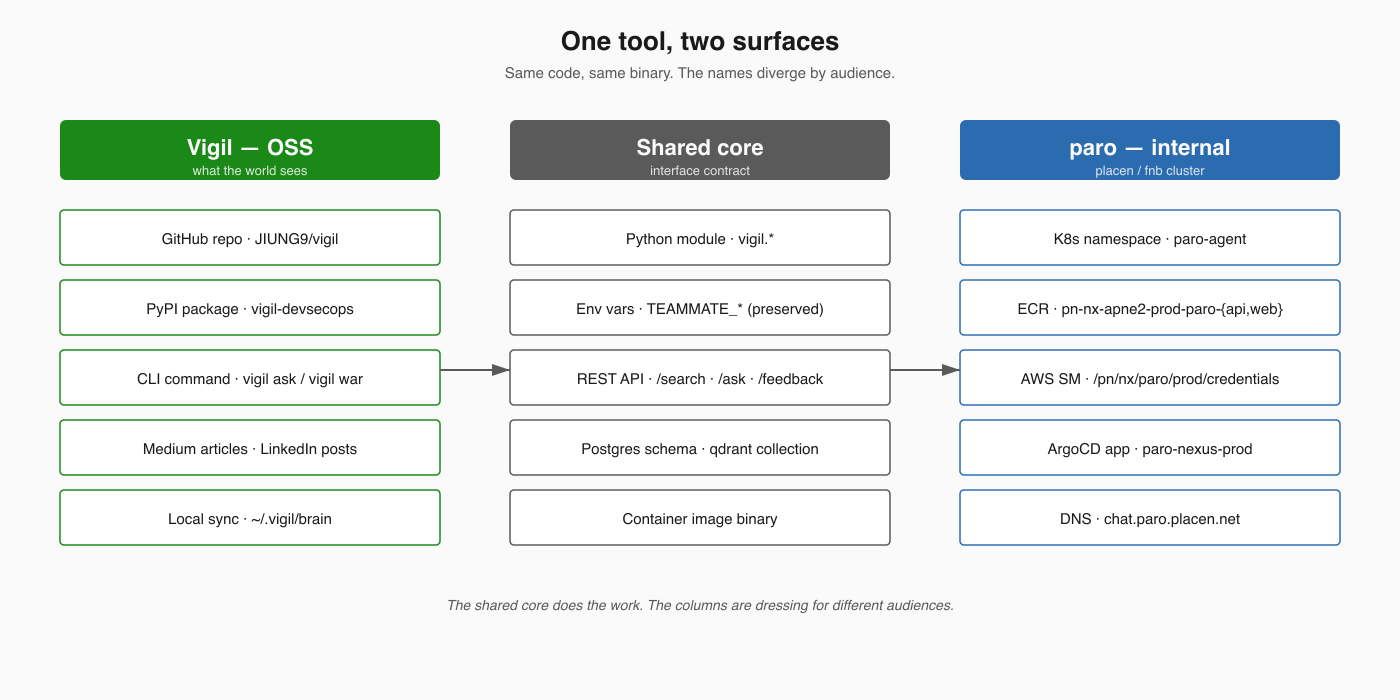
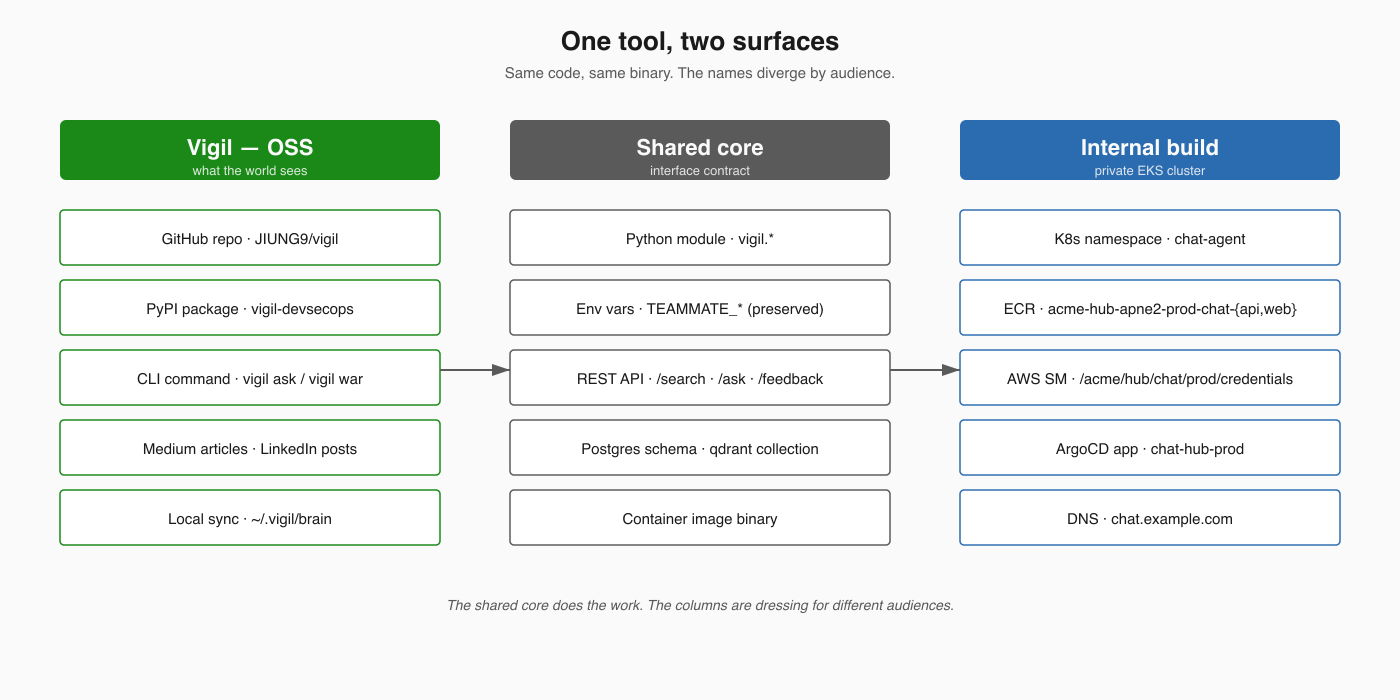
docs: replace internal hostnames, account names and codenames with placeholders (#4)

diff --git a/docs/series-7/08-rename-and-cutover.md b/docs/series-7/08-rename-and-cutover.md
@@ -1,8 +1,8 @@
 # One tool, two names: shipping a SRE assistant that is also open source
 
-I built a tool called **acme-deploy** at work that pulls our SRE knowledge into a single search-and-chat surface — runbooks, past incidents, Slack threads, on-call paging history. It's been useful enough that I wanted to open-source the engine so other small DevSecOps teams could run it. The naming question turned out to be much harder than the engineering.
+In my day job I built a tool that pulls our SRE knowledge into a single search-and-chat surface — runbooks, past incidents, Slack threads, on-call paging history. It's been useful enough that I wanted to open-source the engine so other small DevSecOps teams could run it. The naming question turned out to be much harder than the engineering.
 
-I'm going to walk through the dual-name decision — **Vigil** for the public OSS, **acme-deploy** for the internal deployment — and what the cutover looked like in practice. Both because someone else may face the same problem, and because I want to remember the gotchas next time I do this.
+I'm going to walk through the dual-name decision — **Vigil** for the public OSS, a separate internal name for the private deployment — and what the cutover looked like in practice. Both because someone else may face the same problem, and because I want to remember the gotchas next time I do this.
 
 ---
 
@@ -13,7 +13,7 @@ I'm going to walk through the dual-name decision — **Vigil** for the public OS
 1. **It collides with everything.** Slack has a "Teammates" listing, Microsoft has a Teams app, GitHub's marketing copy uses "teammate" generically — none of it is searchable.
 2. **It leaks identity.** Every Slack message starting "hey teammate, ..." became indistinguishable from human chatter. Logs were a nightmare to grep.
 3. **It implies friendship, not vigilance.** What the tool actually does is watch — alarm streams, dashboards, log pipes — and surface the patterns a tired on-call engineer would miss. The name was selling the wrong promise.
-4. **The internal references were going to leak.** Our K8s namespace was `teammate-agent`, our Postgres DB was `teammate_war`, our ECR repo was `acme-nx-apne2-prod-teammate-api`. Any of those names landing in an OSS GitHub repo would have given away the company-internal naming convention, which is something compliance generally prefers I don't do.
+4. **The internal references were going to leak.** Our K8s namespace was `teammate-agent`, our Postgres DB was `teammate_war`, our ECR repo was `acme-hub-apne2-prod-teammate-api`. Any of those names landing in an OSS GitHub repo would have given away the company-internal naming convention, which is something compliance generally prefers I don't do.
 
 I needed a name that was clearly the tool's identity (not a generic noun), reflected what it does (watches), and let me keep internal infrastructure references out of public artifacts.
 
@@ -23,20 +23,20 @@ I needed a name that was clearly the tool's identity (not a generic noun), refle
 
 The cleanest move would have been to pick one name and use it everywhere. I almost did. Then I sat with three constraints:
 
-- The internal name has to follow our company's existing convention: `pn-{group}-{service}-{region}-{env}-{type}`. That's not negotiable — it's how IAM policies, billing tags, and Terraform modules are organized. The OSS user community will never see this and shouldn't have to.
+- The internal name has to follow our company's existing convention: `{org}-{group}-{service}-{region}-{env}-{type}`. That's not negotiable — it's how IAM policies, billing tags, and Terraform modules are organized. The OSS user community will never see this and shouldn't have to.
 - The public name has to be Google-able, available on PyPI, and look reasonable on a CV. Internal naming conventions optimize for the opposite goal — uniqueness inside one company's account tree, not uniqueness on the open web.
 - I want to keep the interface compatible. People running the OSS shouldn't have to relearn the API just because the rename happened. That meant preserving `TEAMMATE_*` environment variable names (interfaces don't rename in lockstep with packages without breaking everyone) even while the package and module names changed.
 
-So: **Vigil** is what the world sees. **acme-deploy** is what runs in our cluster. They are the same code, the same binary, but the surfaces are named separately.
+So: **Vigil** is what the world sees. The internal name is what runs in our cluster. They are the same code, the same binary, but the surfaces are named separately.
 
 | Where | Name | Examples |
 |---|---|---|
 | GitHub repo, PyPI, Medium, LinkedIn | **Vigil** | `JIUNG9/vigil`, `pip install vigil-devsecops` |
-| K8s namespace, ECR, AWS Secrets Manager, internal git | **acme-deploy** | `acme-deploy-agent`, `acme-nx-apne2-prod-acme-deploy-api`, `/pn/nx/acme-deploy/prod/credentials` |
+| K8s namespace, ECR, AWS Secrets Manager, internal git | **internal name** (shown here as `chat`) | `chat-agent`, `acme-hub-apne2-prod-chat-api`, `/acme/hub/chat/prod/credentials` |
 | Env vars, internal Python module aliases | **teammate** (preserved) | `TEAMMATE_NAMESPACE`, `TEAMMATE_TOP_K` |
-| Engineer's laptop sync dir | depends on context | `~/.vigil/brain` (OSS), `~/.acme-deploy/brain` (internal) |
+| Engineer's laptop sync dir | depends on context | `~/.vigil/brain` (OSS), `~/.chat/brain` (internal) |
 
-The third row is the part most engineers will push back on. Why preserve `TEAMMATE_*` when the package renamed? Because env var names are an interface contract with everyone who has the previous package deployed. If I rename `TEAMMATE_NAMESPACE` to `VIGIL_NAMESPACE` or `PARO_NAMESPACE`, every existing deployment breaks at restart, silently, because Kubernetes doesn't validate env-var keys. The cost of one ugly residual name in the OSS code is much smaller than the cost of breaking real deployments.
+The third row is the part most engineers will push back on. Why preserve `TEAMMATE_*` when the package renamed? Because env var names are an interface contract with everyone who has the previous package deployed. If I rename `TEAMMATE_NAMESPACE` to `VIGIL_NAMESPACE` or `CHAT_NAMESPACE`, every existing deployment breaks at restart, silently, because Kubernetes doesn't validate env-var keys. The cost of one ugly residual name in the OSS code is much smaller than the cost of breaking real deployments.
 
 ---
 
@@ -52,13 +52,13 @@ The non-obvious gotcha: ruff's `isort` rules don't auto-update imports for you. 
 
 ### Step 2 — Internal GitOps directory + Kubernetes resources
 
-`platform/teammate/` → `platform/acme-deploy/`, 33 YAML files, lowercase-only substitution (preserving `TEAMMATE_*` env keys per the interface rule above). New ECR repos under `acme-nx-apne2-prod-acme-deploy-{api,web}` because ECR repo names are immutable.
+`platform/teammate/` → `platform/chat/`, 33 YAML files, lowercase-only substitution (preserving `TEAMMATE_*` env keys per the interface rule above). New ECR repos under `acme-hub-apne2-prod-chat-{api,web}` because ECR repo names are immutable.
 
-The gotcha: AWS Security Group `GroupName` is immutable. I had `acme-nx-teammate-apne2-prod-alb-sg` created in an earlier session. I could update the Name tag freely, but the underlying GroupName is stuck. The only way to fully align is to create a new SG with the correct GroupName and migrate the ALB to it. I parked this — the SG is a tag mismatch, not a functional issue.
+The gotcha: AWS Security Group `GroupName` is immutable. I had `acme-hub-teammate-apne2-prod-alb-sg` created in an earlier session. I could update the Name tag freely, but the underlying GroupName is stuck. The only way to fully align is to create a new SG with the correct GroupName and migrate the ALB to it. I parked this — the SG is a tag mismatch, not a functional issue.
 
 ### Step 3 — Image rebuild + ECR migration
 
-This is the step where surprises live. The package internals still import from `vigil.*`, but the deployed image had to be retagged and pushed to the new ECR repo. Ten rebuilds in one afternoon, each unmasking a different latent bug — wrong torch flavor pulling 5 GB of CUDA libs the cluster didn't need; the brain-repo writer trying to chmod files as non-root; a residual `socket_listener` calling `teammate-{routine}` queue names instead of `acme-deploy-{routine}`.
+This is the step where surprises live. The package internals still import from `vigil.*`, but the deployed image had to be retagged and pushed to the new ECR repo. Ten rebuilds in one afternoon, each unmasking a different latent bug — wrong torch flavor pulling 5 GB of CUDA libs the cluster didn't need; the brain-repo writer trying to chmod files as non-root; a residual `socket_listener` calling `teammate-{routine}` queue names instead of `chat-{routine}`.
 
 The lesson: cutovers expose every place where the name was hardcoded as a string instead of derived from a config var. I'd recommend a pre-cutover audit: grep for the old name in literal strings (not just imports) and refactor those to read from a single source of truth before you start renaming anything.
 
@@ -66,9 +66,9 @@ The lesson: cutovers expose every place where the name was hardcoded as a string
 
 ### Step 4 — ArgoCD app rename + ACM cert reissue
 
-Old: `teammate-nexus-prod` Application pointing at `platform/teammate/`. New: `acme-deploy-nexus-prod` pointing at `platform/acme-deploy/`. The original ArgoCD app had to be deleted first — ArgoCD does not support in-place rename — and the path under it changed, so for a few minutes the old Application showed OutOfSync as it diff'd against a non-existent path.
+Old: `teammate-hub-prod` Application pointing at `platform/teammate/`. New: `chat-hub-prod` pointing at `platform/chat/`. The original ArgoCD app had to be deleted first — ArgoCD does not support in-place rename — and the path under it changed, so for a few minutes the old Application showed OutOfSync as it diff'd against a non-existent path.
 
-ACM cert for `chat.teammate.example.com` got left bound to a dormant Ingress through this transition (no DNS, no traffic — harmless but ugly). Six days later when v6 chat-web shipped I issued a fresh `chat.acme-deploy.example.com` cert, swapped the Ingress, and deleted the old cert.
+ACM cert for `chat.teammate.example.com` got left bound to a dormant Ingress through this transition (no DNS, no traffic — harmless but ugly). Six days later when v6 chat-web shipped I issued a fresh `chat.example.com` cert, swapped the Ingress, and deleted the old cert.
 
 Route53: two new A-records, both ALB aliases. The catch: when I deleted the old Ingresses to free the ALBs, the records dangled briefly. I kept them in place rather than churning DNS, since users were already trained on the old URLs and getting "no answer" was less confusing than NXDOMAIN.
 
@@ -99,14 +99,14 @@ This is the table most cutover writeups skip. I'll be specific.
 | Surface | Run rate |
 |---|---|
 | Vigil OSS (GitHub repo, PyPI publish, GitHub Actions CI) | **$0/month** |
-| acme-deploy internal — running fully (cluster pods + 2 ALBs + WAF + 1 extra system node) | ~$200/month |
-| acme-deploy internal — idled (only PVCs + WAF + SM + ECR + Route53) | ~$11/month |
+| Internal deployment — running fully (cluster pods + 2 ALBs + WAF + 1 extra system node) | ~$200/month |
+| Internal deployment — idled (only PVCs + WAF + SM + ECR + Route53) | ~$11/month |
 
 The most useful split is: **the OSS track was always going to be free.** GitHub Actions covers CI for public repos at no cost; PyPI is free; GitHub Pages is free. Anything I learn from open-sourcing this is recovered without burning a budget.
 
 The internal track is where money lives. Even fully idled — every pod stopped, ArgoCD app deleted, ALBs torn down — I'm still paying $11/month for the durable data (PVCs holding 15k corpus chunks, the AWS Secrets Manager entry, the orphan WAF). When pods are running, the system-nodegroup bump alone adds $77/month for one t3.large.
 
-This means I can keep acme-deploy alive in idle mode indefinitely and decide later when to turn it back on, without the cost of restart being any meaningful blocker. The Terraform for the WAF, SQS, ACM cert, Route53 records is all still in place; an `argocd app create acme-deploy-nexus-prod` plus a nodegroup scale-up brings the whole system back in fifteen minutes.
+This means I can keep the internal deployment alive in idle mode indefinitely and decide later when to turn it back on, without the cost of restart being any meaningful blocker. The Terraform for the WAF, SQS, ACM cert, Route53 records is all still in place; an `argocd app create chat-hub-prod` plus a nodegroup scale-up brings the whole system back in fifteen minutes.
 
 ---
 
@@ -133,6 +133,6 @@ vigil setup
 
 `vigil setup` walks you through pointing it at your team's Slack workspace, git repos, and on-call schedule. The brain auto-builds from documents you already have — markdown runbooks, past Slack threads, resolved Jira incidents. You can run it entirely on your laptop (`~/.vigil/brain`) before you decide whether it's worth the cluster footprint.
 
-If you want to run the full internal pattern — Postgres + Qdrant + reranker + war-room SSE — the manifests under [`platform/acme-deploy/` in the gitops repo template](https://github.com/JIUNG9/vigil/tree/main/examples/k8s) are a starting point. The README in that directory documents the AWS resources you'll need to mirror.
+If you want to run the full internal pattern — Postgres + Qdrant + reranker + war-room SSE — the manifests under [`platform/chat/` in the gitops repo template](https://github.com/JIUNG9/vigil/tree/main/examples/k8s) are a starting point. The README in that directory documents the AWS resources you'll need to mirror.
 
 The biggest single piece of advice if you're considering this: **the value isn't in the system running, it's in the human loop.** Build it to be turned off cheaply. The minute you can't afford to idle, you've over-built.

diff --git a/docs/devops-platform.md b/docs/devops-platform.md
@@ -1,6 +1,6 @@
 # Vigil — DevOps Platform (v6.x roadmap)
 
-> **Status**: roadmap document · drafted 2026-06-02 · referenced by the spec on the internal twin (acme-deploy)
+> **Status**: roadmap document · drafted 2026-06-02 · referenced by the spec for a private deployment
 
 Vigil started as an SRE chat assistant (Q&A over your runbooks, war-room state machine, MTTD/MTTR measurement). The v6.x line extends that into a full DevOps Console — eleven sidebar tabs that consolidate the surfaces a small DevSecOps team has otherwise scattered across SigNoz, Datadog, Grafana, Confluence, Jira, and Slack.
 
@@ -15,16 +15,16 @@ The DevOps Console adds an 11-tab left sidebar to the existing Chat / Timeline /
 | # | Tab | What it does | Backed by |
 |---|---|---|---|
 | 1 | **Log Explorer** | SigNoz APM logs scoped by service / severity / time. Always queries ERROR and WARN together to avoid the auto-alert-filter blind spot. | SigNoz ClickHouse `signoz_logs.distributed_logs_v2` |
-| 2 | **SLO Dashboard** | Per-service error-budget burn + service-health grid + time-window toggle (7d / 30d / 90d). | `paro_war.slo_targets`, `slo_measurements`; SigNoz APM derived |
+| 2 | **SLO Dashboard** | Per-service error-budget burn + service-health grid + time-window toggle (7d / 30d / 90d). | `vigil_war.slo_targets`, `slo_measurements`; SigNoz APM derived |
 | 3 | **FinOps** | Cost-overview, cost-by-service, kubernetes-cost, rightsizing recommendations, budget management, daily anomaly cards. | AWS Cost Explorer + Kubecost |
-| 4 | **Incidents** | Multi-account incident list, alert-feed (SSE), incident-stats, incident-detail, Slack-thread import, AI suggestions. | `paro_war.incidents` + `incident_events` + `alert_feed` |
-| 5 | **Security** | Three-tier posture cards (critical / warn / ok) — secrets archaeology, dependency vulns, CI/CD pipeline security, OWASP Top 10 + STRIDE progress. | `paro_war.security_findings`, `/cso` skill |
+| 4 | **Incidents** | Multi-account incident list, alert-feed (SSE), incident-stats, incident-detail, Slack-thread import, AI suggestions. | `vigil_war.incidents` + `incident_events` + `alert_feed` |
+| 5 | **Security** | Three-tier posture cards (critical / warn / ok) — secrets archaeology, dependency vulns, CI/CD pipeline security, OWASP Top 10 + STRIDE progress. | `vigil_war.security_findings`, `/cso` skill |
 | 6 | **IAM Audit** | Per-account IAM inventory + last-accessed timestamps + removal candidate queue with dev → prod sequence lock. | IAM API + CloudTrail 90d lookback |
-| 7 | **Deployments + DORA** | Recent rollouts + DORA 4 KPI cards (Deployment Frequency / Lead Time / MTTR / Change Failure Rate) + Lead Time tab + deploy↔incident correlation. | ArgoCD events + git log + `paro_war.dora_metrics` |
-| 8 | **On-Call** | Rotation table per account + escalation matrix + AI assignee recommendation + member-manager (vacations / shift swaps). | `paro_war.oncall_*` |
-| 9 | **Services** | Service catalog (account / tier / owner / deploy method) + multi-account health grid + SLI summary + recent incidents per service. | `paro_war.services` |
-| 10 | **Account Mgmt** | AWS account inventory cards (id / name / alias / CIDR / region) + cross-account assume-role map + VPC topology overview. | `paro_war.aws_accounts` |
-| 11 | **Settings** | Per-user preferences (theme / lang / default account / default chat mode), alert routing rules, confidence/rerank thresholds, data retention. | `paro_war.user_preferences`, `system_config` |
+| 7 | **Deployments + DORA** | Recent rollouts + DORA 4 KPI cards (Deployment Frequency / Lead Time / MTTR / Change Failure Rate) + Lead Time tab + deploy↔incident correlation. | ArgoCD events + git log + `vigil_war.dora_metrics` |
+| 8 | **On-Call** | Rotation table per account + escalation matrix + AI assignee recommendation + member-manager (vacations / shift swaps). | `vigil_war.oncall_*` |
+| 9 | **Services** | Service catalog (account / tier / owner / deploy method) + multi-account health grid + SLI summary + recent incidents per service. | `vigil_war.services` |
+| 10 | **Account Mgmt** | AWS account inventory cards (id / name / alias / CIDR / region) + cross-account assume-role map + VPC topology overview. | `vigil_war.aws_accounts` |
+| 11 | **Settings** | Per-user preferences (theme / lang / default account / default chat mode), alert routing rules, confidence/rerank thresholds, data retention. | `vigil_war.user_preferences`, `system_config` |
 
 Above the sidebar tabs sit the four already-shipped Vigil surfaces:
 
@@ -39,16 +39,16 @@ And a **Current Dashboard** that opens by default — pod / PVC / ALB state + co
 
 ## Multi-account model
 
-Every page is account-scoped. The header carries a sticky chip row (`All / nexus / shared / prod-a / prod-b` in the internal deployment; users define their own account labels in `aws_accounts`). The chip selection flows as a `?account=` query parameter into every page's data fetch.
+Every page is account-scoped. The header carries a sticky chip row (e.g. `All / hub / shared-services / prod-a / prod-b`; users define their own account labels in `aws_accounts`). The chip selection flows as a `?account=` query parameter into every page's data fetch.
 
-The corresponding schema migration on `paro_war.incidents` adds:
+The corresponding schema migration on `vigil_war.incidents` adds:
 
 ```sql
-ALTER TABLE paro_war.incidents ADD COLUMN account_id varchar(16);
-CREATE INDEX idx_incidents_account_window ON paro_war.incidents(account_id, declared_at DESC);
+ALTER TABLE vigil_war.incidents ADD COLUMN account_id varchar(16);
+CREATE INDEX idx_incidents_account_window ON vigil_war.incidents(account_id, declared_at DESC);
 ```
 
-Webhook ingest receivers (`/hooks/{github,jira,confluence,signoz}`) need a small enrichment to extract the originating account — for SigNoz this is `service.namespace` (e.g. `prod-now` → `prod-a`), for GitHub `repository.owner.login`, for Atlassian `org_id`.
+Webhook ingest receivers (`/hooks/{github,jira,confluence,signoz}`) need a small enrichment to extract the originating account — for SigNoz this is `service.namespace` (e.g. `prod-a-svc` → `prod-a`), for GitHub `repository.owner.login`, for Atlassian `org_id`.
 
 ---
 
@@ -64,9 +64,9 @@ DORA lives inside the **Deployments** tab, not as a separate sidebar item — th
 A **DORA tier classifier** combines these into Elite / High / Medium / Low.
 
 **SPACE** (Microsoft Research extension) is on the v6.2 roadmap:
-- **Satisfaction** — Slack `/acme-deploy` feedback thumb up/down rate
+- **Satisfaction** — Slack `/vigil` feedback thumb up/down rate
 - **Performance** — already covered by DORA + SLO
-- **Activity** — per-engineer `/acme-deploy` usage + response acceptance
+- **Activity** — per-engineer `/vigil` usage + response acceptance
 - **Communication** — war-room thread participation rate
 - **Efficiency** — postmortem publish rate (drafts → published)
 
@@ -78,7 +78,7 @@ Where Aegis is a dashboard, Vigil's value-add is the **adaptive feedback loops**
 
 ### Adaptive MTTD — SigNoz threshold learner
 
-The `acme-deploy-apm-suggester` daily CronJob analyzes the last 28 days of SigNoz metrics per service, computes P50/P95/P99 baselines, and posts proposed `watchlist/*.yaml` rule changes to `#oncall-pager` with Approve / Skip / Edit buttons. Approve → automatic brain-repo PR → SigNoz alert rule sync. The "action-first / ratify-after" mode is opt-in per rule — Vigil adjusts the threshold first, then auto-reverts in 24h if false-positive rate spikes.
+The `vigil-apm-suggester` daily CronJob analyzes the last 28 days of SigNoz metrics per service, computes P50/P95/P99 baselines, and posts proposed `watchlist/*.yaml` rule changes to `#oncall-pager` with Approve / Skip / Edit buttons. Approve → automatic brain-repo PR → SigNoz alert rule sync. The "action-first / ratify-after" mode is opt-in per rule — Vigil adjusts the threshold first, then auto-reverts in 24h if false-positive rate spikes.
 
 ### Adaptive MTTR — analysis workbench
 
@@ -99,7 +99,7 @@ Self-hosted, single-vm baseline:
 | 2 ALBs (chat-web + webhook-ingest) | ~$34/mo |
 | Total for a small team | **~$50-100/mo** depending on EKS node footprint |
 
-Vigil OSS targets the same "fifteen-to-fifty dollars a month" sweet spot Aegis was designed for. The internal Vigil deployment at acme-corp (`acme-deploy`) currently runs at ~$200/mo when fully live, ~$11/mo when idled with PVCs retained.
+Vigil OSS targets the same "fifteen-to-fifty dollars a month" sweet spot Aegis was designed for. A private Vigil deployment I run at my employer costs ~$200/mo when fully live, ~$11/mo when idled with PVCs retained.
 
 ---
 
@@ -127,7 +127,7 @@ The two projects are siblings, not competitors. The components that overlap (acc
 | DORA tier classifier | ⏳ planned for v6.2 |
 | SPACE metrics | 🔮 v6.3+ |
 
-The internal twin (acme-deploy at acme-corp) has the full functional spec written up in 18 Korean Confluence pages — those are not public, but the structure mirrors this document one-to-one.
+That private deployment has its full functional spec in an internal spec set. It isn't public, but its structure mirrors this document one-to-one.
 
 ---
 

diff --git a/docs/series-7/09-build-to-be-turned-off.md b/docs/series-7/09-build-to-be-turned-off.md
@@ -24,11 +24,11 @@ The design instinct that saved me was treating "off" as a first-class state, not
 
 ## The $200/month freezer
 
-When acme-deploy was running, my AWS account was paying about $200/month for it. Most of that wasn't the application — it was the **shape of running**: one extra node in the system nodegroup to schedule the qdrant pod ($77), two ALBs to terminate TLS at the edge ($34), a WAF Web ACL for the webhook ingress ($7), the rest in PVCs and small services.
+When the internal deployment was running, my AWS account was paying about $200/month for it. Most of that wasn't the application — it was the **shape of running**: one extra node in the system nodegroup to schedule the qdrant pod ($77), two ALBs to terminate TLS at the edge ($34), a WAF Web ACL for the webhook ingress ($7), the rest in PVCs and small services.
 
 When I turned it off, the bill dropped to about $11/month. The data — qdrant's 15,000+ embedded chunks, the Postgres schema, the bm25 index — all stayed on three EBS volumes. Restartable at any time. Just nothing running on top.
 
-Eleven dollars a month is roughly the cost of three cups of coffee. That's what it costs me to keep the option open to bring acme-deploy back without losing a week of indexer work. I'd pay that even if I never restarted.
+Eleven dollars a month is roughly the cost of three cups of coffee. That's what it costs me to keep the option open to bring it back without losing a week of indexer work. I'd pay that even if I never restarted.
 
 The $122 to $11 delta isn't the lesson, though. **Fifteen minutes** is the lesson. That's how long the off-switch took. Three commands: delete two Ingresses, scale a nodegroup, delete some orphans. The Terraform stays. The container images stay. The secrets stay. Everything that took weeks to build stays exactly where it is.
 
@@ -42,7 +42,7 @@ A few decisions paid off. None of them felt important at the time.
 
 **Persistent data on EBS, not in pod-local storage.** Qdrant runs from a 20 GiB PVC. Postgres runs from a 10 GiB PVC. Both are bound, both can survive a namespace delete if — and this is the important if — the PV reclaim policy is set to `Retain`. The default in Kubernetes is `Delete`. I caught this five minutes before tearing down the test environment for the first time. I'd recommend writing a Kyverno policy that requires `Retain` on any PVC larger than 5 GiB. The PV-deletes-volume default exists for legitimate reasons but the failure mode is silent and total.
 
-**ArgoCD as the only way to deploy.** Every Kubernetes resource in acme-deploy came from a YAML file in a git repo, applied by ArgoCD. When I deleted the ArgoCD Application, all 11 Deployments, 4 CronJobs, 2 Services, and 5 ConfigMaps went with it. One delete, the whole compute layer goes. If I'd been applying YAMLs directly with `kubectl apply`, the teardown would have been a 30-command scavenger hunt.
+**ArgoCD as the only way to deploy.** Every Kubernetes resource in the deployment came from a YAML file in a git repo, applied by ArgoCD. When I deleted the ArgoCD Application, all 11 Deployments, 4 CronJobs, 2 Services, and 5 ConfigMaps went with it. One delete, the whole compute layer goes. If I'd been applying YAMLs directly with `kubectl apply`, the teardown would have been a 30-command scavenger hunt.
 
 **Terraform creates resources, not data.** The Terraform repo defines the SQS queue, the ACM cert, the WAF, the Route53 records, the IAM role. None of it stores the actual data. Destroying it deletes resources; running `terraform apply` again recreates them in 3 minutes. The data lives in PVCs and AWS Secrets Manager, which are managed separately and have different lifecycle rules. **Compute is cattle. Data is pets.** Treating them differently in your IaC is the difference between a 15-minute restart and a "let me check if the backup is recent" panic.
 
@@ -58,7 +58,7 @@ Three things, all small, all the kind of thing you only catch the second time.
 
 **Write the off-switch into the runbook on day one.** I wrote the cutover runbook in February when I first deployed. It explained how to deploy. It did not explain how to undeploy. When I idled the service in May, I had to figure out the exact command sequence from scratch — what to delete, in what order, what stays. I wrote that down after, and the next person (probably future-me) gets to use it. Day-one runbooks should always have a symmetric "rollback" or "undeploy" section. Both halves are runbook content, not bonus material.
 
-**Set up the cost dashboard before the launch, not after.** I knew acme-deploy was costing ~$120/month because I went looking. The CloudWatch billing dashboard would have shown me that without any effort, if I'd configured it. Now I have an explicit "service-level cost" view per project — partitioned by tag — and I check it weekly. The $77 nodegroup line item would have caught my eye a week earlier if the dashboard had existed.
+**Set up the cost dashboard before the launch, not after.** I knew it was costing ~$120/month because I went looking. The CloudWatch billing dashboard would have shown me that without any effort, if I'd configured it. Now I have an explicit "service-level cost" view per project — partitioned by tag — and I check it weekly. The $77 nodegroup line item would have caught my eye a week earlier if the dashboard had existed.
 
 **Treat the "is it being used?" signal as a first-class metric.** I had no instrumentation for whether anyone was actually reaching for the search endpoint. I had to ask. The right pattern is a simple `usage_events` table — incrementing counters keyed by user and endpoint, written best-effort — with a daily rollup. Usage being zero or near-zero should be a Slack alert, not something you have to remember to query. If a service hasn't been used in 14 days, the question "should this be on?" should answer itself.
 
@@ -66,7 +66,7 @@ Three things, all small, all the kind of thing you only catch the second time.
 
 ## The 2-of-3 test
 
-When I documented the idle decision in the runbook, I wrote down three criteria. Restart acme-deploy when **two of three** are true:
+When I documented the idle decision in the runbook, I wrote down three criteria. Restart it when **two of three** are true:
 
 1. **Webhooks wired.** The continuous-learning loop has to actually close. Without GitHub + SigNoz at minimum pushing events into the system, the qdrant index freezes at whatever date it last ingested. A frozen brain decays fast: every passing day, the documentation it knows is more out of date.
 2. **Golden test set labeled.** Not 15 self-baselined pairs against the system's own current top-1 picks. 50+ human-judged QA pairs from real resolved incidents, with the gold doc-id confirmed by a person. Without this, "is v6 better than v1?" can't be measured, which means "should we be running v6?" is a vibes call.
@@ -109,4 +109,4 @@ The bias I'd push back on hardest is the one that says you should treat your own
 
 ---
 
-*This is part 9 of the Building Vigil series. Part 8 — [One tool, two names](08-rename-and-cutover.md) — covers the OSS/internal naming decision. The Vigil OSS at `pip install vigil-devsecops` is the externalized version of the engine; the internal one lives as `acme-deploy` and, as of this writing, is idled.*
+*This is part 9 of the Building Vigil series. Part 8 — [One tool, two names](08-rename-and-cutover.md) — covers the OSS/internal naming decision. The Vigil OSS at `pip install vigil-devsecops` is the externalized version of the engine; the internal one runs under a different name and, as of this writing, is idled.*

diff --git a/docs/series-7/10-functional-specs-as-portfolio.md b/docs/series-7/10-functional-specs-as-portfolio.md
@@ -1,8 +1,8 @@
 # Functional specs as a portfolio artifact
 
-I spent a Tuesday afternoon writing eighteen functional specification documents on Confluence. Not for a deliverable. Not for a sprint. For a thing I haven't built yet — an extension of an internal SRE tool that I've been considering opening up into a full DevOps platform. I wrote them anyway. Here's why, and why I think more engineers should do this.
+I spent a Tuesday afternoon writing a stack of functional specification documents on our internal wiki. Not for a deliverable. Not for a sprint. For a thing I haven't built yet — an extension of an internal SRE tool that I've been considering opening up into a full DevOps platform. I wrote them anyway. Here's why, and why I think more engineers should do this.
 
-The tool is called `acme-deploy` internally and `Vigil` in its open-source form. Both names refer to the same engine: a self-hosted chat assistant over a team's runbooks, past incidents, Slack threads, and Jira tickets, plus a war-room state machine and the metrics that the team's reliability engineering cares about (MTTD, MTTR). I shipped v6 in late May and idled it the same week — the cost of running it exceeded the value at the time, but the value would come back the moment I had two specific blockers cleared. The story of that idle-then-restart cycle is in [part 8](08-rename-and-cutover.md) and [part 9](09-build-to-be-turned-off.md) of this series.
+The tool has one name inside my employer and is `Vigil` in its open-source form. Both names refer to the same engine: a self-hosted chat assistant over a team's runbooks, past incidents, Slack threads, and Jira tickets, plus a war-room state machine and the metrics that the team's reliability engineering cares about (MTTD, MTTR). I shipped v6 in late May and idled it the same week — the cost of running it exceeded the value at the time, but the value would come back the moment I had two specific blockers cleared. The story of that idle-then-restart cycle is in [part 8](08-rename-and-cutover.md) and [part 9](09-build-to-be-turned-off.md) of this series.
 
 This is what came next: I knew the chat surface alone wasn't going to justify the ongoing cost. The tool needed to be a platform. Eleven more tabs, multi-account scoping, DORA metrics, FinOps integration, an IAM audit view. I'd been borrowing the pattern from a project called Aegis — another open-source DevSecOps dashboard I'd looked at for inspiration. It already had nine of the eleven tabs I wanted, in good condition, with the components named well and a sensible information architecture. I could lift them.
 
@@ -38,7 +38,7 @@ The third, and this is the one that surprised me: writing the spec changes what 
 
 ## What the specs look like
 
-I used the same twelve-section structure for every page. Korean for the internal versions because the team reads Korean; English for the OSS-facing equivalents because that audience reads English. Both versions cover the same ground.
+I used the same twelve-section structure for every page. The internal versions are in the team's working language; the OSS-facing equivalents are in English because that audience reads English. Both versions cover the same ground.
 
 The twelve sections are deliberate. They're not the longest spec template I've used — that honor goes to a multi-page IEEE-style template I encountered at a previous job that had seventeen sections plus a glossary plus a traceability matrix. They're also not the shortest — some teams ship one-paragraph "What is it and why" descriptions and call it done.
 
@@ -56,7 +56,7 @@ A few things, mostly small.
 
 **The "glossary" section catches name collisions.** I'd been using `severity` and `p_class` interchangeably. When I wrote the glossary, I had to pick one. The spec said: `severity` for raw alert severity (ERROR / WARN / INFO), `p_class` for declared-incident classification (P0 / P1 / P2 / P3). Now the code is going to be more consistent because the spec forced the question.
 
-**The "data model" section catches schema gaps.** Every page that promised "per-account split" forced me to write "account_id column missing from `paro_war.incidents`." Now there's a single migration ticket instead of eight different "this needs a column" comments scattered across the docs.
+**The "data model" section catches schema gaps.** Every page that promised "per-account split" forced me to write "account_id column missing from `vigil_war.incidents`." Now there's a single migration ticket instead of eight different "this needs a column" comments scattered across the docs.
 
 **The "constraints" section catches the parts you'd rather not admit.** The chat-api currently runs at one replica because the bm25-index PVC pins it to an over-loaded AZ. That's not a feature; it's a capacity constraint. The spec says so. Future-me will be glad it's documented; otherwise I'd waste a day six months from now wondering why I made that choice.
 
@@ -105,4 +105,4 @@ The portfolio benefit is a side effect. The primary win is that you build better
 
 ---
 
-*Part 10 of the Building Vigil series. The functional specs that prompted this article are at Confluence id 357367903 (internal); the OSS equivalent lives at [`docs/devops-platform.md`](../../../../teammate-oss/docs/devops-platform.md). The companion roadmap for the Next.js implementation is at [`acme-deploy-chat-web/ROADMAP.md`](../../acme-deploy-chat-web/ROADMAP.md).*
+*Part 10 of the Building Vigil series. The functional specs that prompted this article are internal; the OSS equivalent lives at [`docs/devops-platform.md`](../devops-platform.md).*

diff --git a/docs/series-7/05-mttd-similarity-search.md b/docs/series-7/05-mttd-similarity-search.md
@@ -80,7 +80,7 @@ The output is a list of similar past incidents:
 ```
 INFRA-2391 (score 0.89) — prod-b-rds storage exhaustion (5/12) — resolved by rolling back OPS-1834
 INCD-1102 (score 0.74)  — auth-server replica cascade (3/14)    — resolved by failover
-INCD-988  (score 0.61)  — nw-prod long-lived transaction (1/02) — resolved by kill connection
+INCD-988  (score 0.61)  — prod-a long-lived transaction (1/02) — resolved by kill connection
 ```
 
 This is the high-signal piece. It doesn't claim to predict anything. It just says "we've seen something like this before; here's what we did."
@@ -123,11 +123,11 @@ The Watch tab in the chat UI surfaces three things:
 │                    INCD-988                            │
 │  [✓ Approve & sync to SigNoz]  [Edit YAML]  [Reject]  │
 │                                                        │
-│  Watch: nw-prod-api heap usage > 80% for 5min         │
+│  Watch: prod-a-api heap usage > 80% for 5min          │
 │  confidence 0.71 — based on INCD-1077                 │
 │  [✓ Approve]  [Edit]  [Reject]                        │
 │                                                        │
-│  Watch: prod-b-rds autoscale storage > 90% ceiling   │
+│  Watch: prod-b-rds autoscale storage > 90% ceiling    │
 │  confidence 0.92 — based on INFRA-2391                │
 │  [✓ Approve]  [Edit]  [Reject]                        │
 └────────────────────────────────────────────────────────┘
@@ -137,9 +137,9 @@ The Watch tab in the chat UI surfaces three things:
 │  [Search past incidents]                              │
 │                                                        │
 │  Top 3 matches:                                       │
-│  INFRA-2391 (0.89) — prod-b-rds storage exhaustion   │
+│  INFRA-2391 (0.89) — prod-b-rds storage exhaustion    │
 │  INCD-1102  (0.74) — auth-server replica cascade      │
-│  INCD-988   (0.61) — nw-prod long-lived transaction   │
+│  INCD-988   (0.61) — prod-a long-lived transaction    │
 └────────────────────────────────────────────────────────┘
 ```
 

diff --git a/docs/ARCHITECTURE.md b/docs/ARCHITECTURE.md
@@ -24,7 +24,7 @@ The brain itself lives in **a private git repo**. Every change is PR-reviewable 
 - War-rooms became an "analysis workbench" page; the in-app chat panel was cut because Slack already does that job.
 - MTTD became *automated by default* (action-first, ratify-after): adaptive baseline learner auto-applies SigNoz rules with revert.
 - New incident path: Slack message → right-click → "Import to Vigil" → LLM + system analysis → MTTR incident.
-- Multi-account aware (acme-corp / shared / nw / dp pattern) via service catalog with `account` column.
+- Multi-account aware (hub / shared-services / prod-a / prod-b pattern) via service catalog with `account` column.
 
 The series-7 articles in `docs/series-7/` are the long-form explainer for each change.
 

diff --git a/docs/series-7/README.md b/docs/series-7/README.md
@@ -1,6 +1,6 @@
 # Series 7 — Building Vigil (formerly *teammate*)
 
-> **2026-05-19 update**: the project formerly called *teammate* was renamed to **Vigil** at v5.0.0. The original 7-article series in this directory is preserved as a historical artifact of the v0.10 → v4.0.0 design. The current shipping content is the **consolidated 3-article series** under `nexus/medium-final/`.
+> **2026-05-19 update**: the project formerly called *teammate* was renamed to **Vigil** at v5.0.0. The original 7-article series in this directory is preserved as a historical artifact of the v0.10 → v4.0.0 design. The current shipping content is the **consolidated 3-article series**, drafted outside this repo.
 
 ## v5 (current — 3 consolidated articles)
 

diff --git a/docs/series-7/03-importers-25k-docs.md b/docs/series-7/03-importers-25k-docs.md
@@ -275,10 +275,10 @@ Confluence CQL has two non-obvious quirks I discovered the hard way:
 
 ```python
 # This returns HTTP 400 "Could not parse cql":
-"space IN (DEVOPS, NEXUS, INFRA) AND lastmodified > '...'"
+"space IN (DEVOPS, PLATFORM, INFRA) AND lastmodified > '...'"
 
 # This works:
-"space IN (\"DEVOPS\",\"NEXUS\",\"INFRA\") AND lastmodified > '...'"
+"space IN (\"DEVOPS\",\"PLATFORM\",\"INFRA\") AND lastmodified > '...'"
 ```
 
 The error message gives you nothing useful — just `BadRequestException: Could not parse cql:`. The quotes are mandatory for multi-space `IN` clauses.
